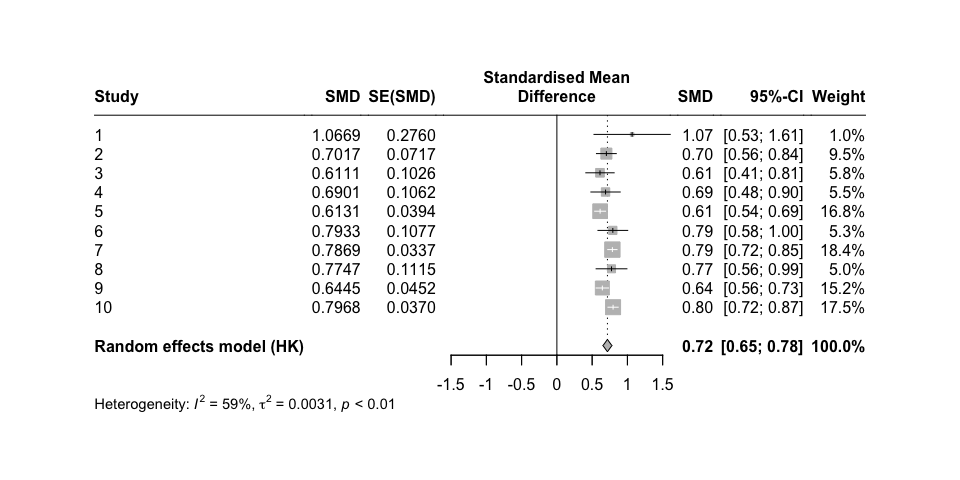
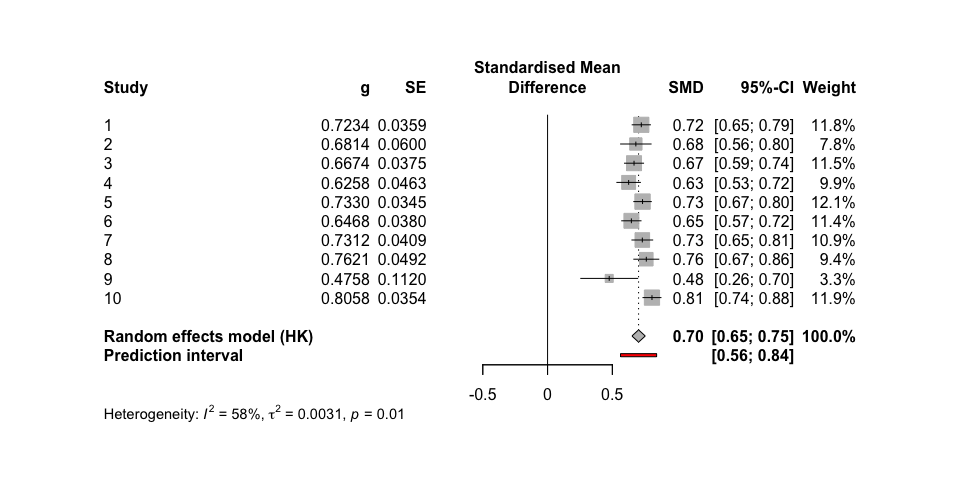
fix readme

diff --git a/README.md b/README.md
@@ -46,14 +46,14 @@ sim <- sim_meta(min_obs = 20,
 
 head(sim)
 #> # A tibble: 6 × 10
-#>   study hedges_g     se   mean_x mean_y  sd_x  sd_y   n_x   n_y      vi
-#>   <int>    <dbl>  <dbl>    <dbl>  <dbl> <dbl> <dbl> <int> <int>   <dbl>
-#> 1     1    0.382 0.0389 -0.0451   0.331 0.988 0.986  1348  1348 0.00151
-#> 2     2    0.308 0.0863 -0.0794   0.227 1.03  0.960   272   272 0.00744
-#> 3     3    0.397 0.0357 -0.00463  0.389 1.00  0.974  1599  1599 0.00128
-#> 4     4    0.263 0.0323  0.0259   0.289 0.987 1.01   1939  1939 0.00104
-#> 5     5    0.344 0.0614 -0.00594  0.331 0.977 0.982   538   538 0.00377
-#> 6     6    0.308 0.0325 -0.0179   0.294 1.01  1.02   1920  1920 0.00105
+#>   study hedges_g     se  mean_x mean_y  sd_x  sd_y   n_x   n_y      vi
+#>   <int>    <dbl>  <dbl>   <dbl>  <dbl> <dbl> <dbl> <int> <int>   <dbl>
+#> 1     1    0.310 0.0434  0.0109  0.316 0.995 0.975  1073  1073 0.00189
+#> 2     2    0.357 0.0447 -0.0363  0.323 1.01  0.999  1019  1019 0.00199
+#> 3     3    0.290 0.0373 -0.0199  0.266 0.992 0.984  1455  1455 0.00139
+#> 4     4    0.275 0.0605  0.0120  0.278 0.983 0.945   552   552 0.00366
+#> 5     5    0.251 0.0561  0.0156  0.277 1.01  1.06    640   640 0.00315
+#> 6     6    0.291 0.0503  0.0121  0.302 0.979 1.01    798   798 0.00253
 ```
 
 ## Effect size and standard error
@@ -76,42 +76,46 @@ ggplot(sim, aes(x = hedges_g, y = log(se), color = n_x))+
 ``` r
 require(meta)
 
-metaanalysis <- metagen(TE = hedges_g,
+# choose only studies 1-10 for better readability
+analysis_data <- sim %>% 
+  filter(study <= 10)
+
+meta_fixed <- metagen(TE = hedges_g,
                  seTE = se,
                  studlab = study,
-                 data = sim %>% filter(study <= 10),
+                 data = analysis_data,
                  sm = "SMD",
                  fixed = TRUE,
                  random = FALSE,
-                 title = "Meta-Analysis fixed-effect")
+                 title = "Meta-Analysis Fixed effect")
 
-summary(metaanalysis)
-#> Review:     Meta-Analysis fixed-effect
+summary(meta_fixed)
+#> Review:     Meta-Analysis Fixed effect
 #> 
-#>       SMD            95%-CI %W(common)
-#> 1  0.3815 [ 0.3053; 0.4577]       10.7
-#> 2  0.3077 [ 0.1387; 0.4768]        2.2
-#> 3  0.3975 [ 0.3275; 0.4675]       12.7
-#> 4  0.2633 [ 0.2000; 0.3265]       15.5
-#> 5  0.3443 [ 0.2239; 0.4647]        4.3
-#> 6  0.3077 [ 0.2440; 0.3713]       15.3
-#> 7  0.3610 [ 0.2931; 0.4289]       13.4
-#> 8  0.3058 [ 0.2395; 0.3721]       14.1
-#> 9  0.3435 [ 0.2638; 0.4231]        9.8
-#> 10 0.1305 [-0.0425; 0.3036]        2.1
+#>       SMD           95%-CI %W(common)
+#> 1  0.3096 [0.2245; 0.3948]       11.1
+#> 2  0.3571 [0.2696; 0.4447]       10.5
+#> 3  0.2896 [0.2165; 0.3626]       15.1
+#> 4  0.2752 [0.1567; 0.3937]        5.7
+#> 5  0.2514 [0.1414; 0.3614]        6.7
+#> 6  0.2912 [0.1925; 0.3898]        8.3
+#> 7  0.4333 [0.2904; 0.5762]        4.0
+#> 8  0.3126 [0.2341; 0.3910]       13.1
+#> 9  0.2299 [0.1521; 0.3077]       13.4
+#> 10 0.2298 [0.1478; 0.3119]       12.0
 #> 
 #> Number of studies: k = 10
 #> 
 #>                        SMD           95%-CI     z  p-value
-#> Common effect model 0.3283 [0.3034; 0.3532] 25.85 < 0.0001
+#> Common effect model 0.2893 [0.2608; 0.3177] 19.95 < 0.0001
 #> 
 #> Quantifying heterogeneity:
-#>  tau^2 = 0.0012 [0.0000; 0.0141]; tau = 0.0346 [0.0000; 0.1185]
-#>  I^2 = 46.1% [0.0%; 74.1%]; H = 1.36 [1.00; 1.96]
+#>  tau^2 = 0.0004 [0.0000; 0.0091]; tau = 0.0192 [0.0000; 0.0954]
+#>  I^2 = 22.0% [0.0%; 61.8%]; H = 1.13 [1.00; 1.62]
 #> 
 #> Test of heterogeneity:
 #>      Q d.f. p-value
-#>  16.71    9  0.0535
+#>  11.54    9  0.2407
 #> 
 #> Details on meta-analytical method:
 #> - Inverse variance method
@@ -122,8 +126,7 @@ summary(metaanalysis)
 ## Forest plot
 
 ``` r
-metafor::forest(metaanalysis,
-             sortvar = TE,
+metafor::forest(meta_fixed,
              prediction = TRUE, 
              print.tau2 = TRUE,
              leftlabs = c("Study", "g", "SE"))
@@ -146,14 +149,14 @@ sim <- sim_meta(min_obs = 20,
 
 head(sim)
 #> # A tibble: 6 × 10
-#>   study hedges_g     se  mean_x mean_y  sd_x  sd_y   n_x   n_y      vi
-#>   <int>    <dbl>  <dbl>   <dbl>  <dbl> <dbl> <dbl> <int> <int>   <dbl>
-#> 1     1    1.07  0.276  -0.291   0.716 0.963 0.900    30    30 0.0762 
-#> 2     2    0.702 0.0717 -0.0610  0.647 0.954 1.06    413   413 0.00514
-#> 3     3    0.611 0.103  -0.0405  0.578 0.996 1.02    199   199 0.0105 
-#> 4     4    0.690 0.106   0.0294  0.699 0.947 0.990   188   188 0.0113 
-#> 5     5    0.613 0.0394  0.0427  0.670 1.04  1.00   1347  1347 0.00155
-#> 6     6    0.793 0.108  -0.180   0.628 1.05  0.982   186   186 0.0116
+#>   study hedges_g     se   mean_x mean_y  sd_x  sd_y   n_x   n_y      vi
+#>   <int>    <dbl>  <dbl>    <dbl>  <dbl> <dbl> <dbl> <int> <int>   <dbl>
+#> 1     1    0.723 0.0359  0.00427  0.740 1.00  1.03   1652  1652 0.00129
+#> 2     2    0.681 0.0600 -0.0229   0.677 1.04  1.01    588   588 0.00360
+#> 3     3    0.667 0.0375 -0.0307   0.641 1.01  1.01   1501  1501 0.00141
+#> 4     4    0.626 0.0463  0.0892   0.722 0.978 1.04    978   978 0.00215
+#> 5     5    0.733 0.0345 -0.0226   0.721 1.01  1.01   1794  1794 0.00119
+#> 6     6    0.647 0.0380  0.0534   0.696 0.991 0.995  1459  1459 0.00144
 ```
 
 ## Run Meta-Analysis on simulated data
@@ -162,44 +165,48 @@ head(sim)
 require(meta)
 require(metafor)
 
-metaanalysis <- metagen(TE = hedges_g,
+# choose only studies 1-10 for better readability
+analysis_data <- sim %>% 
+  filter(study <= 10)
+
+meta_random <- metagen(TE = hedges_g,
                  seTE = se,
                  studlab = study,
-                 data = sim %>% filter(study <= 10),
+                 data = analysis_data,
                  sm = "SMD",
                  fixed = FALSE,
                  random = TRUE,
                  method.tau = 'PM',
                  method.random.ci = "HK",
-                 title = "Meta-Analysis fixed-effect")
+                 title = "Meta-Analysis Random Effects")
 
-summary(metaanalysis)
-#> Review:     Meta-Analysis fixed-effect
+summary(meta_random)
+#> Review:     Meta-Analysis Random Effects
 #> 
 #>       SMD           95%-CI %W(random)
-#> 1  1.0669 [0.5260; 1.6077]        1.0
-#> 2  0.7017 [0.5612; 0.8422]        9.5
-#> 3  0.6111 [0.4101; 0.8121]        5.8
-#> 4  0.6901 [0.4820; 0.8982]        5.5
-#> 5  0.6131 [0.5358; 0.6904]       16.8
-#> 6  0.7933 [0.5823; 1.0044]        5.3
-#> 7  0.7869 [0.7208; 0.8531]       18.4
-#> 8  0.7747 [0.5562; 0.9932]        5.0
-#> 9  0.6445 [0.5558; 0.7332]       15.2
-#> 10 0.7968 [0.7242; 0.8694]       17.5
+#> 1  0.7234 [0.6530; 0.7938]       11.8
+#> 2  0.6814 [0.5638; 0.7990]        7.8
+#> 3  0.6674 [0.5939; 0.7409]       11.5
+#> 4  0.6258 [0.5350; 0.7165]        9.9
+#> 5  0.7330 [0.6654; 0.8006]       12.1
+#> 6  0.6468 [0.5724; 0.7213]       11.4
+#> 7  0.7312 [0.6511; 0.8114]       10.9
+#> 8  0.7621 [0.6658; 0.8585]        9.4
+#> 9  0.4758 [0.2563; 0.6953]        3.3
+#> 10 0.8058 [0.7364; 0.8752]       11.9
 #> 
 #> Number of studies: k = 10
 #> 
 #>                              SMD           95%-CI     t  p-value
-#> Random effects model (HK) 0.7168 [0.6536; 0.7800] 25.65 < 0.0001
+#> Random effects model (HK) 0.7025 [0.6509; 0.7541] 30.79 < 0.0001
 #> 
 #> Quantifying heterogeneity:
-#>  tau^2 = 0.0031 [0.0003; 0.0268]; tau = 0.0558 [0.0168; 0.1638]
-#>  I^2 = 58.9% [17.4%; 79.6%]; H = 1.56 [1.10; 2.21]
+#>  tau^2 = 0.0031 [0.0002; 0.0209]; tau = 0.0559 [0.0156; 0.1444]
+#>  I^2 = 57.7% [14.6%; 79.0%]; H = 1.54 [1.08; 2.18]
 #> 
 #> Test of heterogeneity:
 #>      Q d.f. p-value
-#>  21.91    9  0.0092
+#>  21.27    9  0.0115
 #> 
 #> Details on meta-analytical method:
 #> - Inverse variance method
@@ -208,7 +215,10 @@ summary(metaanalysis)
 #> - Hartung-Knapp adjustment for random effects model (df = 9)
 
 
-metafor::forest(metaanalysis, header = TRUE)
+metafor::forest(meta_random,
+             prediction = TRUE, 
+             print.tau2 = TRUE,
+             leftlabs = c("Study", "g", "SE"))
 ```
 
 <img src="man/figures/README-unnamed-chunk-8-1.png" width="100%" />
